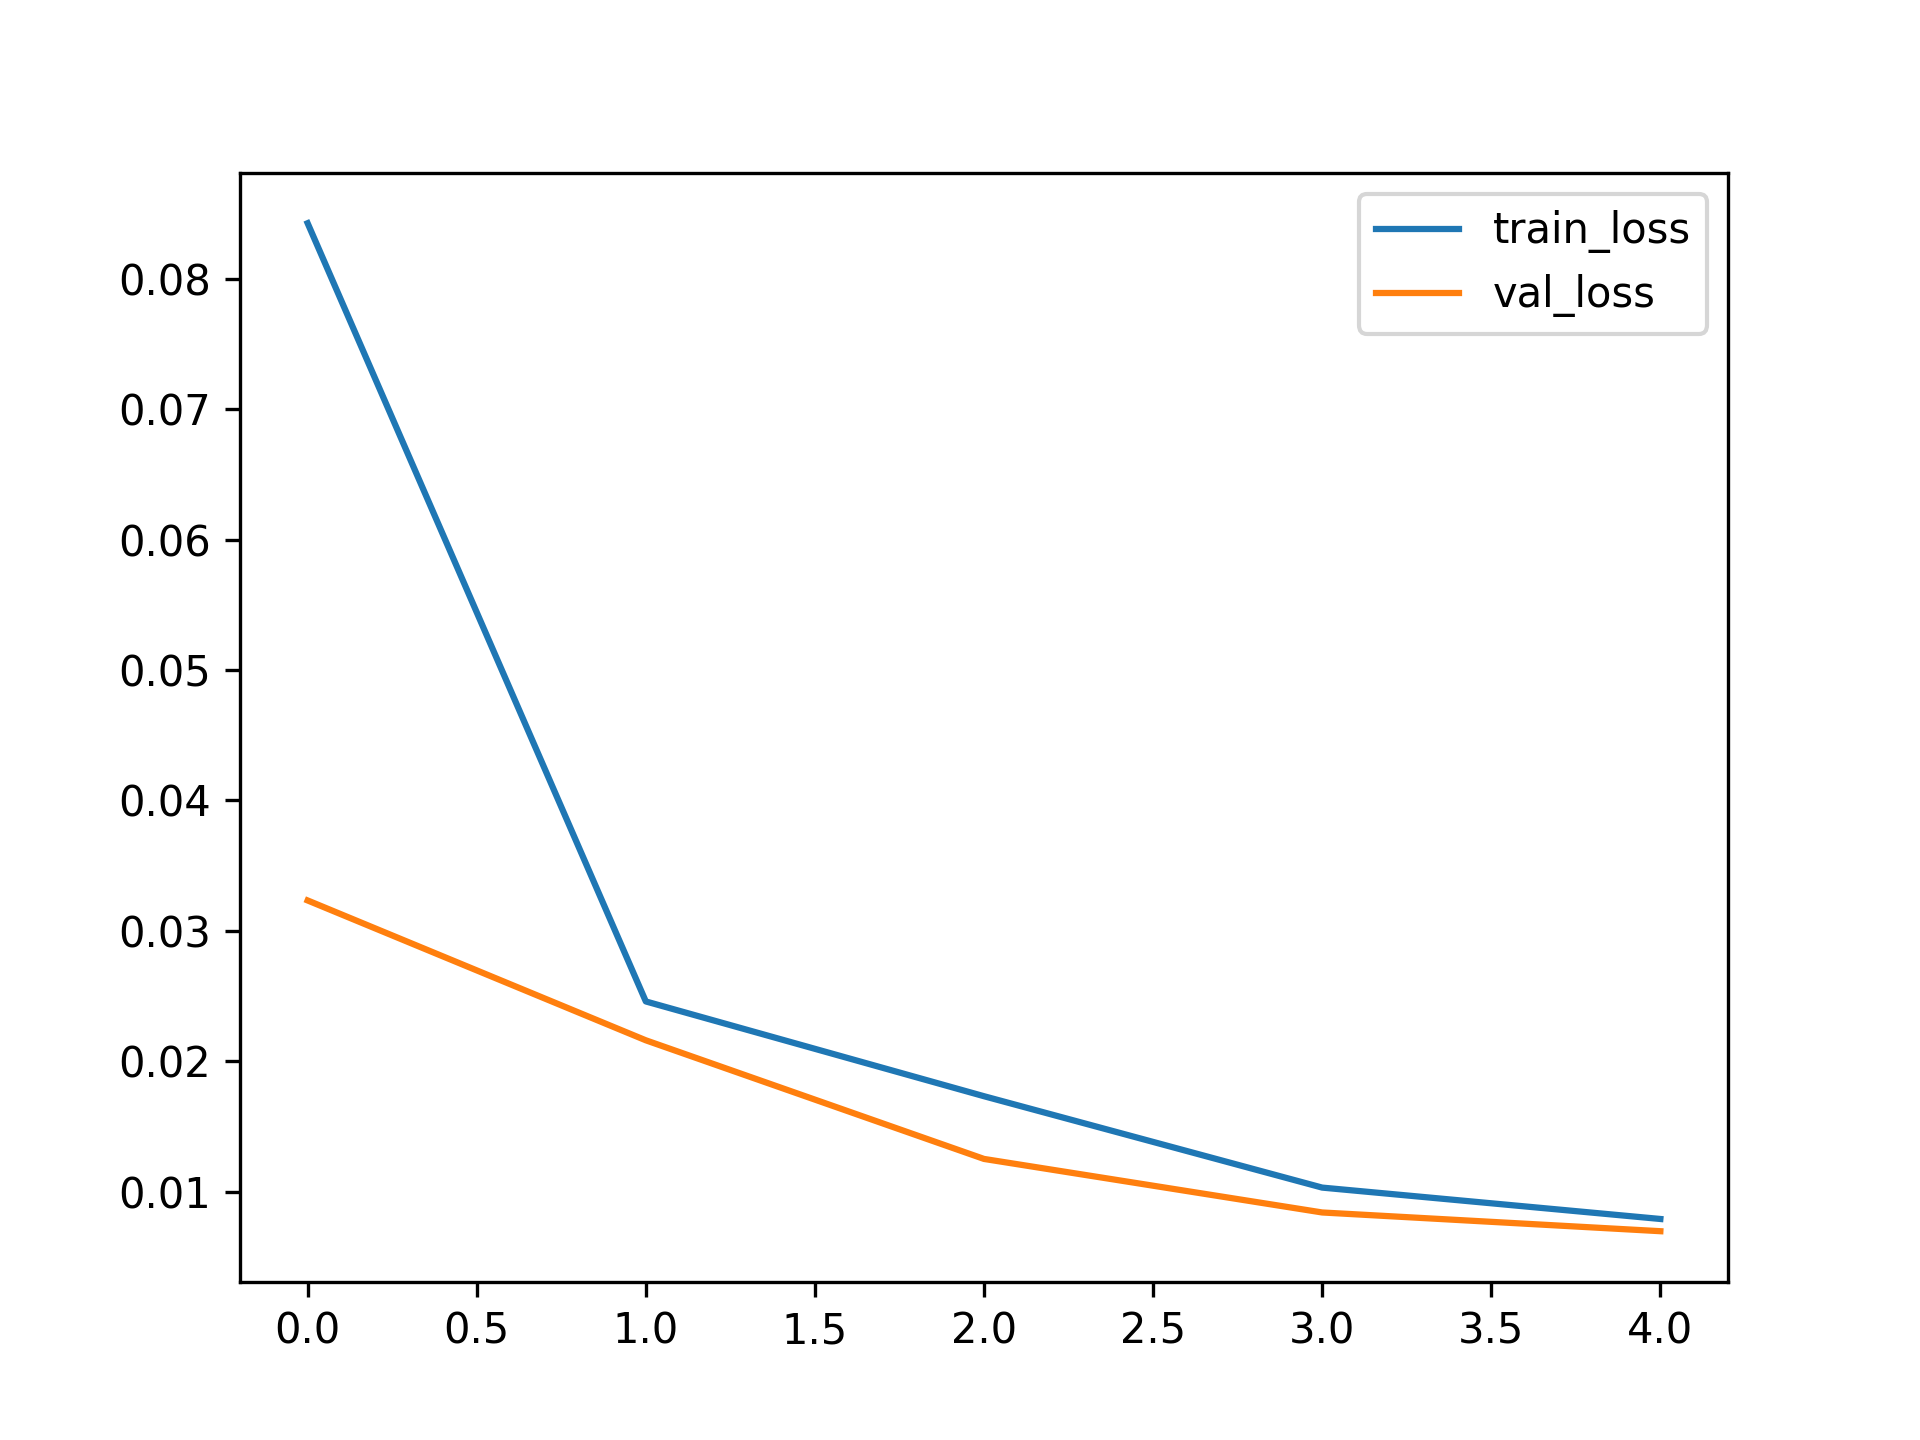
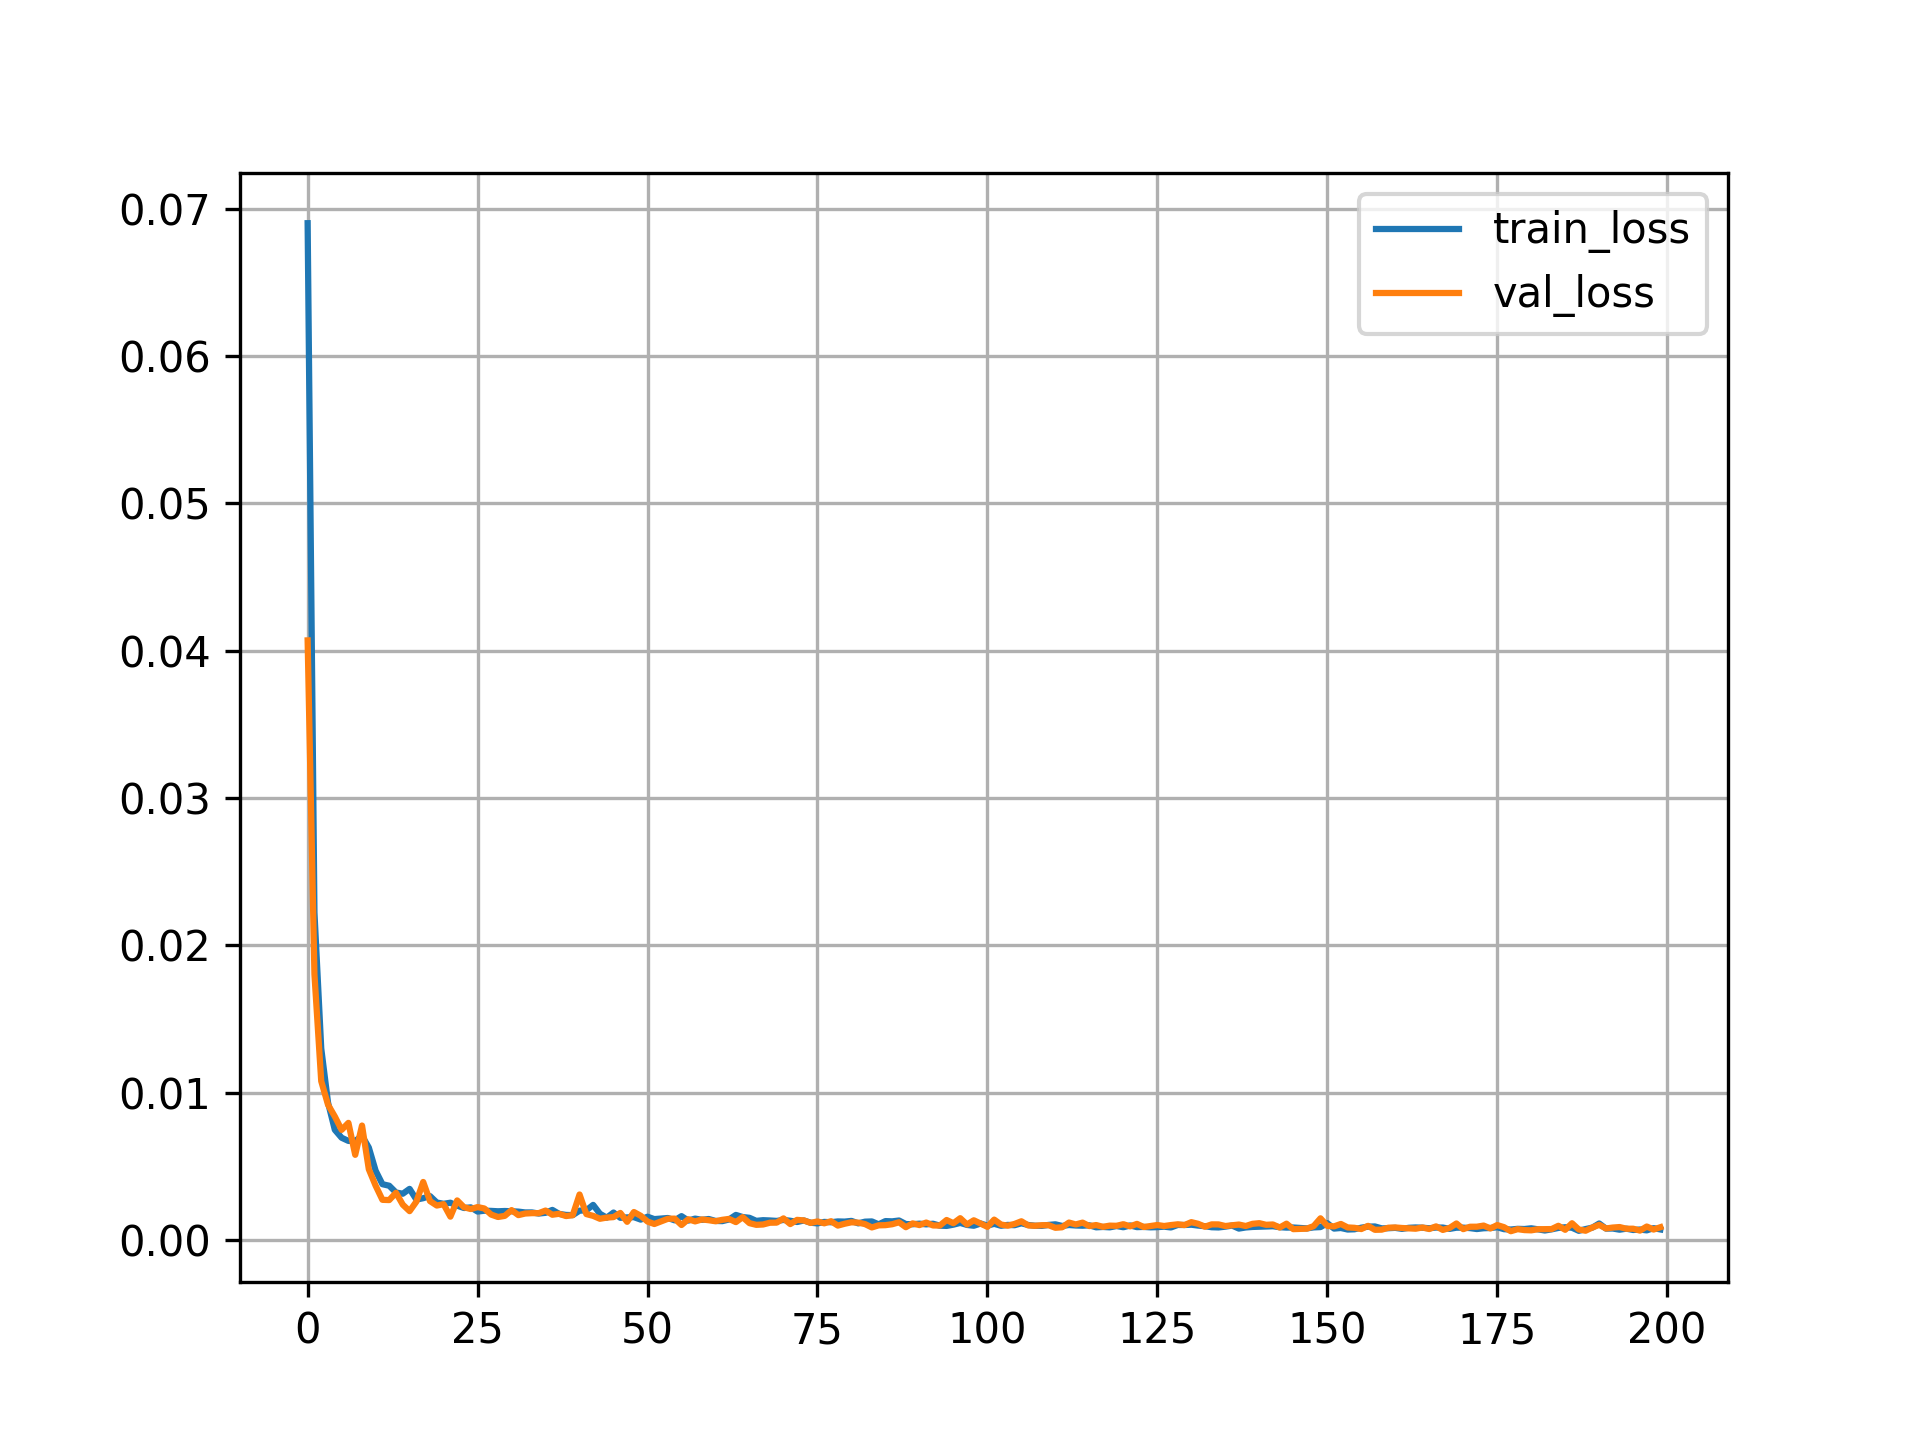
feat(model): init weights

diff --git a/train.py b/train.py
@@ -3,7 +3,7 @@ import os
 import torch
 from math import ceil
 from matplotlib import pyplot as plt
-from model import build_AE, test_model_architecture
+from model import build_AE, init_weights, test_model_architecture
 from torch.utils.data import DataLoader
 from torchvision import transforms
 from torchvision.transforms import v2
@@ -40,7 +40,7 @@ def main():
     device = torch.device('cuda' if torch.cuda.is_available() else 'cpu')
     epoch_number = 0
 
-    EPOCHS = 5
+    EPOCHS = 200
 
     best_vloss = 1_000_000.
     lr = 0.0001
@@ -66,6 +66,7 @@ def main():
     training_epoch_loss = []
     validation_epoch_loss = []
     autoencoder = build_AE()
+    autoencoder.apply(init_weights)
     autoencoder.to(device)
     optimizer = torch.optim.AdamW(autoencoder.parameters(), lr=lr)
     loss_fn = torch.nn.MSELoss()
@@ -99,6 +100,7 @@ def main():
         avg_loss = train_loss
         # --------------------------------------------------------------------------
 
+        torch.cuda.empty_cache()
         running_vloss = 0.
         autoencoder.eval()
         vbar = tqdm(enumerate(validation_loader), desc=f"Epoch(Validating):[{epoch+1}/{EPOCHS}]", total=viters_per_epoch)
@@ -124,7 +126,7 @@ def main():
         writer.flush()
 
         # Track best performance, and save the model's state
-        if avg_vloss < best_vloss:
+        if avg_vloss < best_vloss and epoch>100:
             best_vloss = avg_vloss
             model_path = 'model_{}_{}'.format(timestamp, epoch_number)
             torch.save(autoencoder.state_dict(), model_path)
@@ -132,12 +134,14 @@ def main():
         epoch_number += 1
 
     # Plot loss curve
-    plt.plot(training_epoch_loss, label='train_loss')
-    plt.plot(validation_epoch_loss,label='val_loss')
+    skip_head = 10
+    plt.plot(training_epoch_loss[skip_head:], label='train_loss')
+    plt.plot(validation_epoch_loss[skip_head:],label='val_loss')
+    plt.grid()
     plt.legend()
     plt.savefig('loss_curve.png', dpi=300)
 
 
 if __name__=='__main__':
-    main()
-    # test_model_architecture()
+    # main()
+    test_model_architecture()

diff --git a/model/ae.py b/model/ae.py
@@ -84,3 +84,32 @@ class DecoderLayer(nn.Module):
         x = self.conv_transpose(x)
         x = self.relu(x)
         return x
+
+
+def init_weights(m):
+    """ Custom weight initialization function
+    """
+    if isinstance(m, nn.Conv2d) or isinstance(m, nn.Linear):  # Initialize Conv2d or Linear layers
+        if isinstance(m, nn.ConvTranspose2d):  # ConvTranspose2d can also use ReLU
+            # Check the activation type to decide on the initialization
+            if hasattr(m, 'activation') and isinstance(m.activation, nn.ReLU):
+                # He initialization for ReLU
+                nn.init.kaiming_normal_(m.weight, nonlinearity='relu')
+            else:
+                # Xavier initialization for Sigmoid or Tanh
+                nn.init.xavier_normal_(m.weight)
+        else:
+            if hasattr(m, 'activation'):
+                if isinstance(m.activation, nn.ReLU):
+                    # He initialization for ReLU
+                    nn.init.kaiming_normal_(m.weight, nonlinearity='relu')
+                elif isinstance(m.activation, (nn.Sigmoid, nn.Tanh)):
+                    # Xavier initialization for Sigmoid or Tanh
+                    nn.init.xavier_normal_(m.weight)
+            else:
+                # Default: Xavier for safety
+                nn.init.xavier_normal_(m.weight)
+
+        if m.bias is not None:
+            # nn.init.zeros_(m.bias)  # Initialize biases to 0
+            m.bias.data.fill_(0.01)
